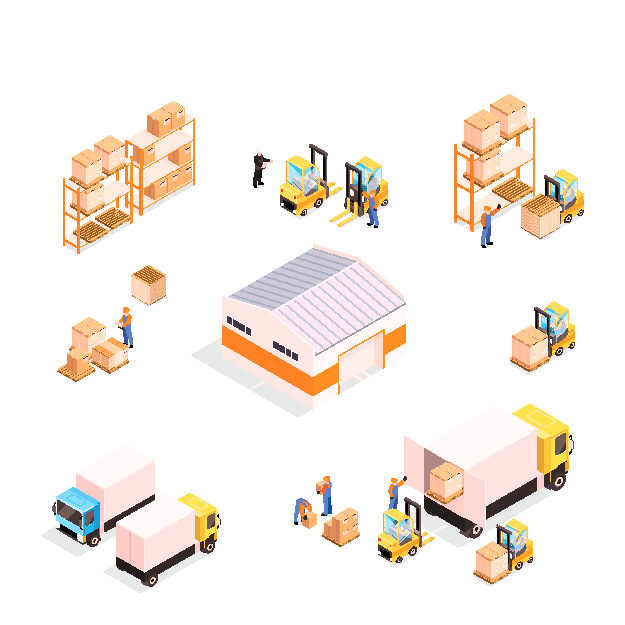
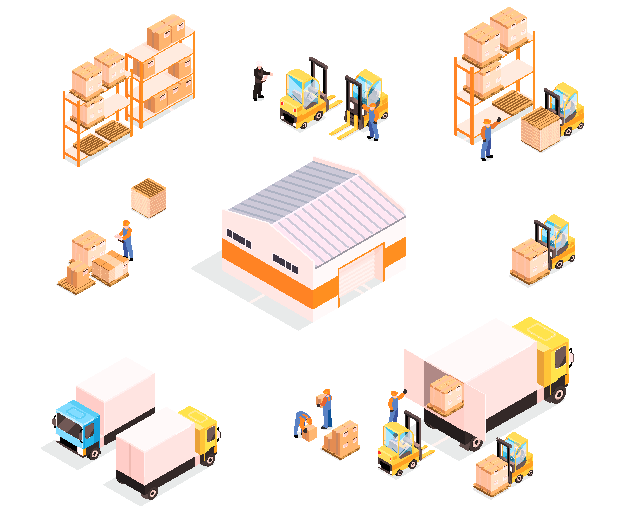
update images

diff --git a/public/services.html b/public/services.html
@@ -20,6 +20,15 @@
   <script src="/public/components/footer.js" type="text/javascript" defer></script>
   <script src="/public/common.js" type="text/javascript" defer></script>
 
+  <style>
+    dt::before {
+      content: ">";
+      background: lightgray;
+      border-radius: 1ch;
+      padding-inline: 1ch;
+      margin-inline-end: 1ch;
+    }
+  </style>
 </head>
 
 <body>
@@ -52,7 +61,7 @@
           <p class="text-[#122B60] mt-5">
             Our software allow our customers to:
           </p>
-          <ul class="list-disc list-inside ml-4  text-[#122B60] mt-5">
+          <ul class="list-disc list-outside ml-4  text-[#122B60] mt-5">
             <li class="">View all manufacturer goods and place bulk orders, taking advantage of product promotions
               and campaigns
             </li>
@@ -65,7 +74,7 @@
         </div>
 
         <div class="w-full md:w-1/2 bg-[#122B60] flex">
-          <img src="/assets/img/distrubution.png" class="w-2/3 mx-auto my-auto hidden lg:block object-cover" alt="b2b model">
+          <img src="/assets/img/distrubution.png" class="w-3/5 mx-auto my-auto hidden lg:block object-cover" alt="b2b model">
         </div>
 
         <div class="w-full md:w-1/2 bg-[#122B60] px-10 py-10 lg:py-35">
@@ -95,7 +104,7 @@
           <p class="text-[#122B60] mt-5">
             This enables our manufacturers and goods producers to also use this data to:
           </p>
-          <ul class="list-inside list-disc ml-4 text-[#122B60]">
+          <ul class="list-outside list-disc ml-4 text-[#122B60]">
             <li>Cross compare sales against and improve on that.</li>
             <li>See where your products rank against other manufacturers</li>
             <li>Run effective promotions and campaigns directly with our customers who in drive sales traffic for your
@@ -131,8 +140,21 @@
 
         </div>
         <div class="w-full md:w-1/2 bg-[#122B60] px-10 py-10">
-          <h3 class="text-white"></h3>
-          <div class="lg:w-full">
+          <div class="lg:w-full lg:mt-30">
+           <div class="flex mb-5">
+            <img src="/assets/img/locations.png" class="w-1/3 mx-auto my-auto hidden lg:block object-cover" alt="">
+           </div>
+            <div class="text-white">
+              <ul class="list-outside list-disc">
+                <li>Predictable service level and customer experience across all countries.</li>
+                <li>Storage space expansion through flexible solutions order</li>
+                <li>End-to-end inventory visibility through our transparent digital platform</li>
+                <li>Management of your brands, categories, Item SKUs with Stock, pricing and promotion details including
+                  weight, volume and packaging</li>
+              </ul>
+            </div>
+          
+           <!--
             <div
               class="question-and-answer select-none my-3 px-6 py-4 rounded-lg text-sm group">
               <dt class="question">
@@ -193,8 +215,9 @@
               </dd>
             </div>
           </div>
+          --> 
         </div>
-
+          
       </div>
       <!--End Two Colums-->
     </div>

diff --git a/public/output-styles.css b/public/output-styles.css
@@ -2316,6 +2316,18 @@ textarea.form-control.is-invalid {
   width: 66.666667%;
 }
 
+.w-1\/2 {
+  width: 50%;
+}
+
+.w-3\/5 {
+  width: 60%;
+}
+
+.w-1\/3 {
+  width: 33.333333%;
+}
+
 .max-w-7xl {
   max-width: 80rem;
 }
@@ -2365,6 +2377,10 @@ textarea.form-control.is-invalid {
 
 .list-inside {
   list-style-position: inside;
+}
+
+.list-outside {
+  list-style-position: outside;
 }
 
 .list-disc {
@@ -3089,6 +3105,18 @@ textarea.form-control.is-invalid {
 
   .lg\:mb-0 {
     margin-bottom: 0px;
+  }
+
+  .lg\:mt-20 {
+    margin-top: 5rem;
+  }
+
+  .lg\:mt-2 {
+    margin-top: 0.5rem;
+  }
+
+  .lg\:mt-24 {
+    margin-top: 6rem;
   }
 
   .lg\:block {
